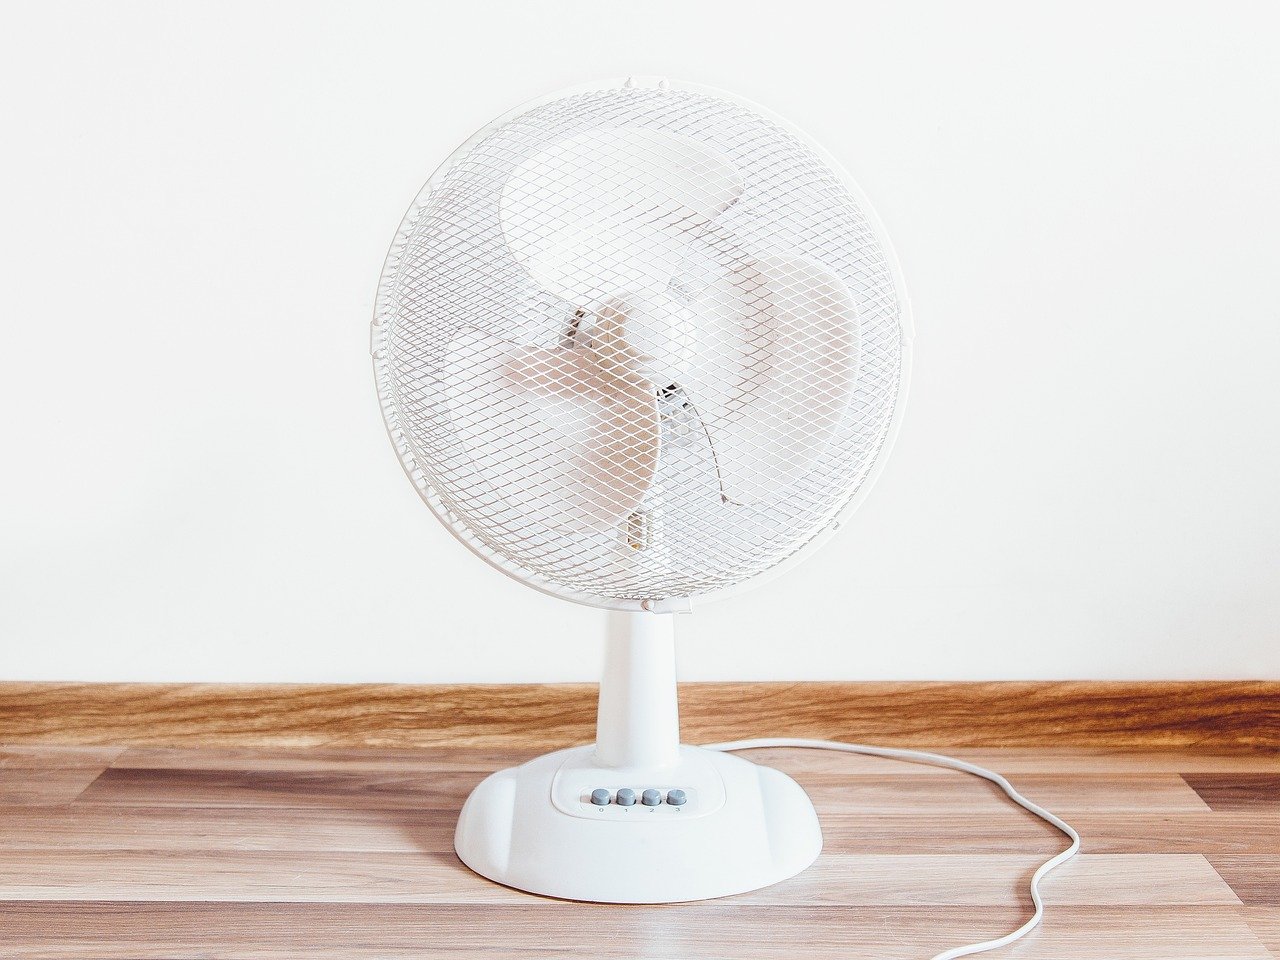
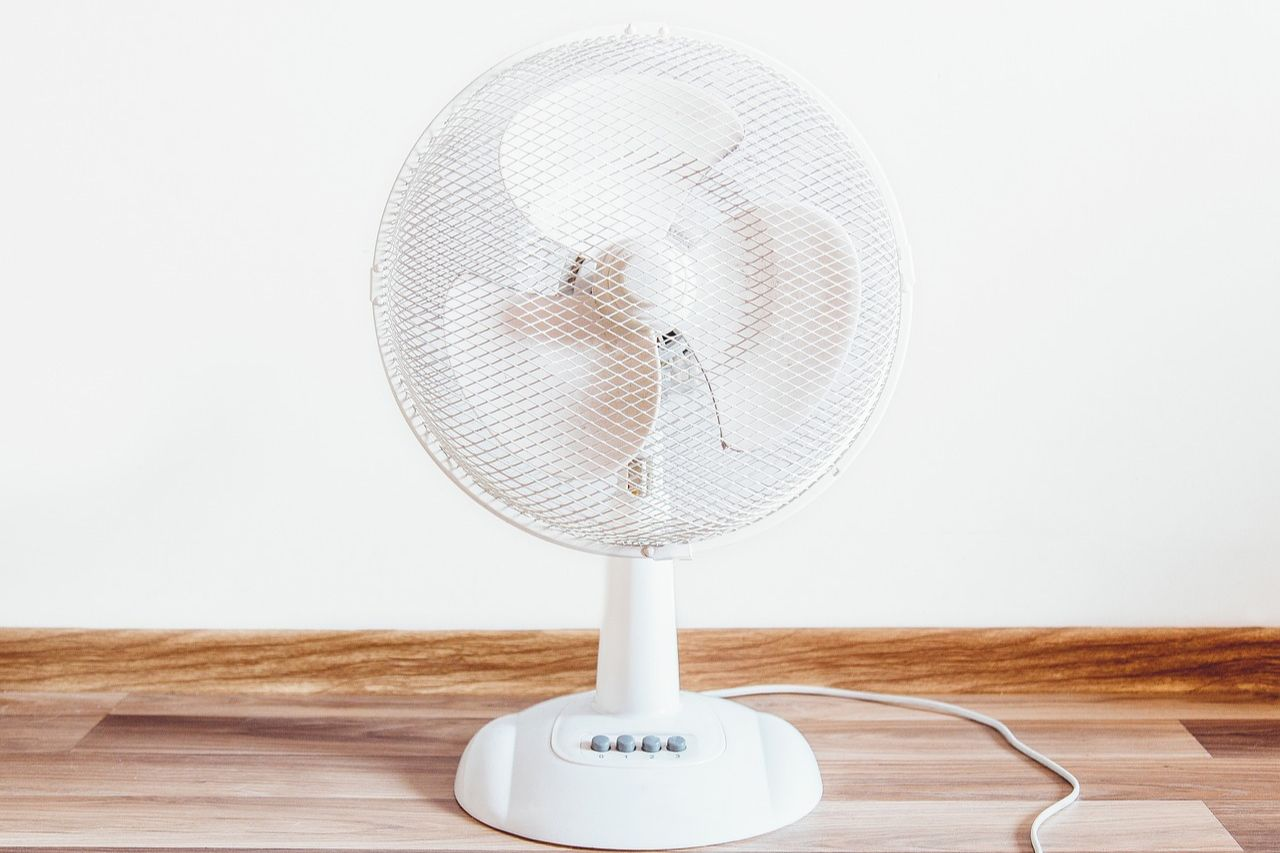
Finition du main et du footer

diff --git a/index.html b/index.html
@@ -40,35 +40,51 @@
             <div></div>
             <div></div>
         </div> -->
-        <div class="container text-center border border-black w-100 h-100">
-            <div class="row">
+        <div class="container text-center w-100 h-100 mt-3">
+            <div class="row d-grid gap-5 d-md-flex">
                 <div class="col border border-black">
                     <div>
-                        <img class="w-100" src="/img/climatiseur.jpg" alt="climatiseur.jpg">
+                        <img class="w-100 mt-3" src="/img/climatiseur.jpg" alt="climatiseur.jpg">
                     </div>
                     <div>
+                        <p>Climatiseur</p>
+                    </div>
+                    <div class="d-flex justify-content-end align-items-end w-100 mt-3 mb-3">
                         <button>Plus d'infos</button>
                     </div>
                 </div>
                 <div class="col border border-black">
                     <div>
-                        <img class="w-100" src="/img/ventilateur.jpg" alt="ventilateur.jpg">
+                        <img class="w-100 mt-3" src="/img/ventilateur.jpg" alt="ventilateur.jpg">
                     </div>
                     <div>
+                        <p>Ventilateur</p>
+                    </div>
+                    <div class="d-flex justify-content-end align-items-end w-100 mt-3 mb-3">
                         <button>Plus d'infos</button>
                     </div>
                 </div>
                 <div class="col border border-black">
                     <div>
-                        <img class="w-100" src="/img/Piscine.jpg" alt="Piscine.jpg">
+                        <img class="w-100 mt-3" src="/img/Piscine.jpg" alt="Piscine.jpg">
                     </div>
-                    <div class="d-flex border border-black h-auto justify-content-end align-items-end">
+                    <div>
+                        <p>Piscine</p>
+                    </div>
+                    <div class="d-flex justify-content-end align-items-end w-100 mt-3 mb-3">
                         <button>Plus d'infos</button>
                     </div>
                 </div>
             </div>
         </div>
     </main>
+
+    <!-- Pour le Footer -->
+    <footer class="d-flex justify-content-center align-items-center bg-primary">
+        <p class="text-white">
+            Dylan 2025
+        </p>
+    </footer>
 </body>
 
 </html>
